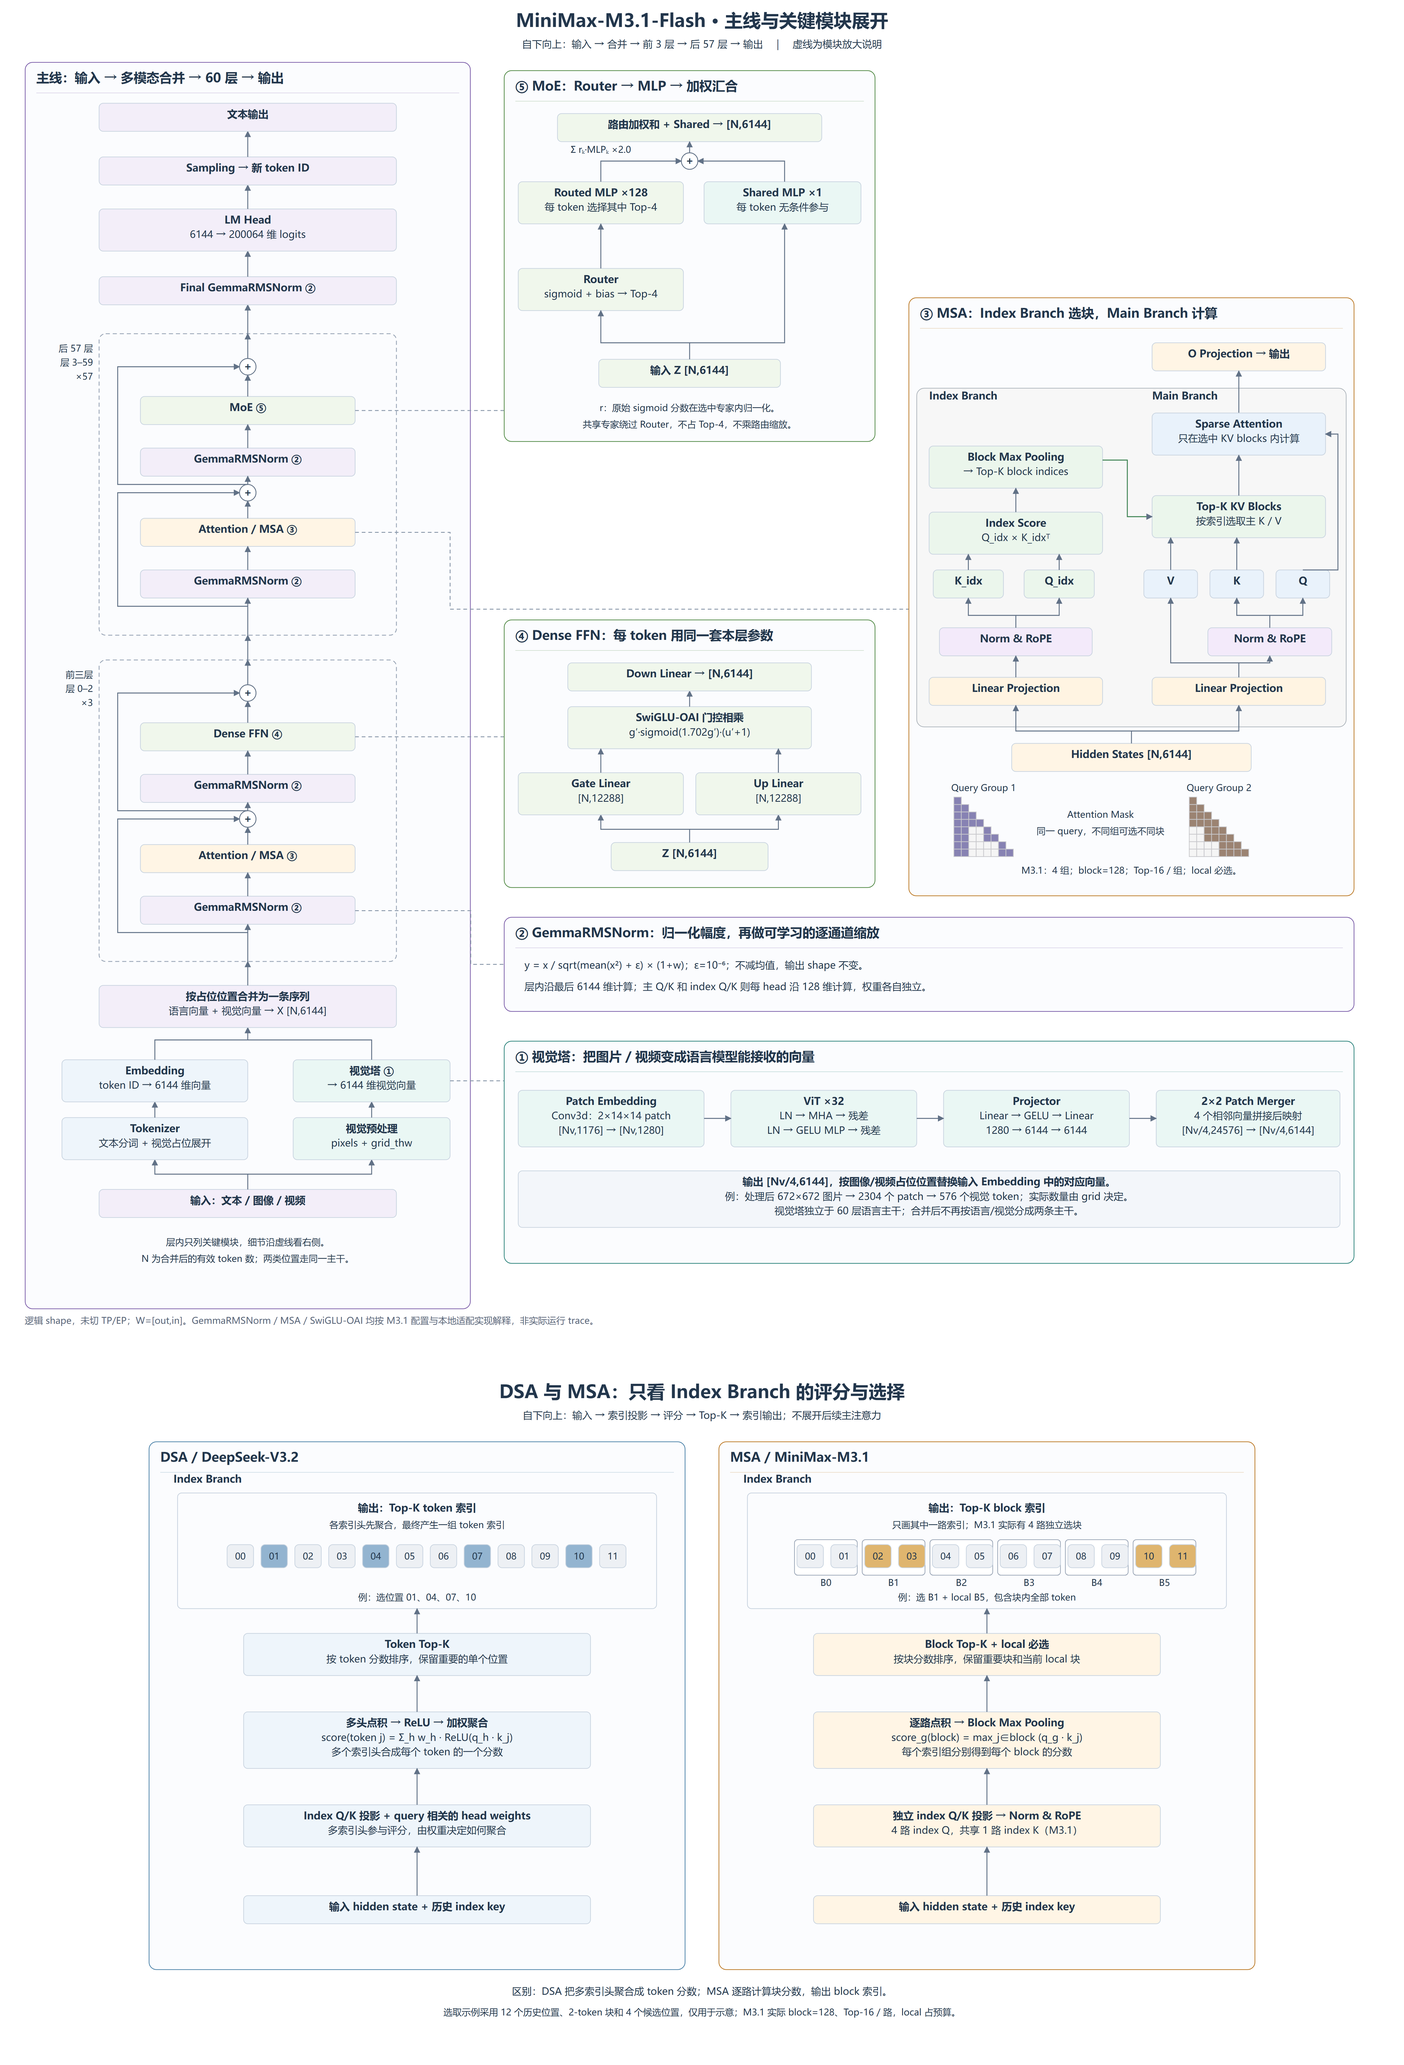
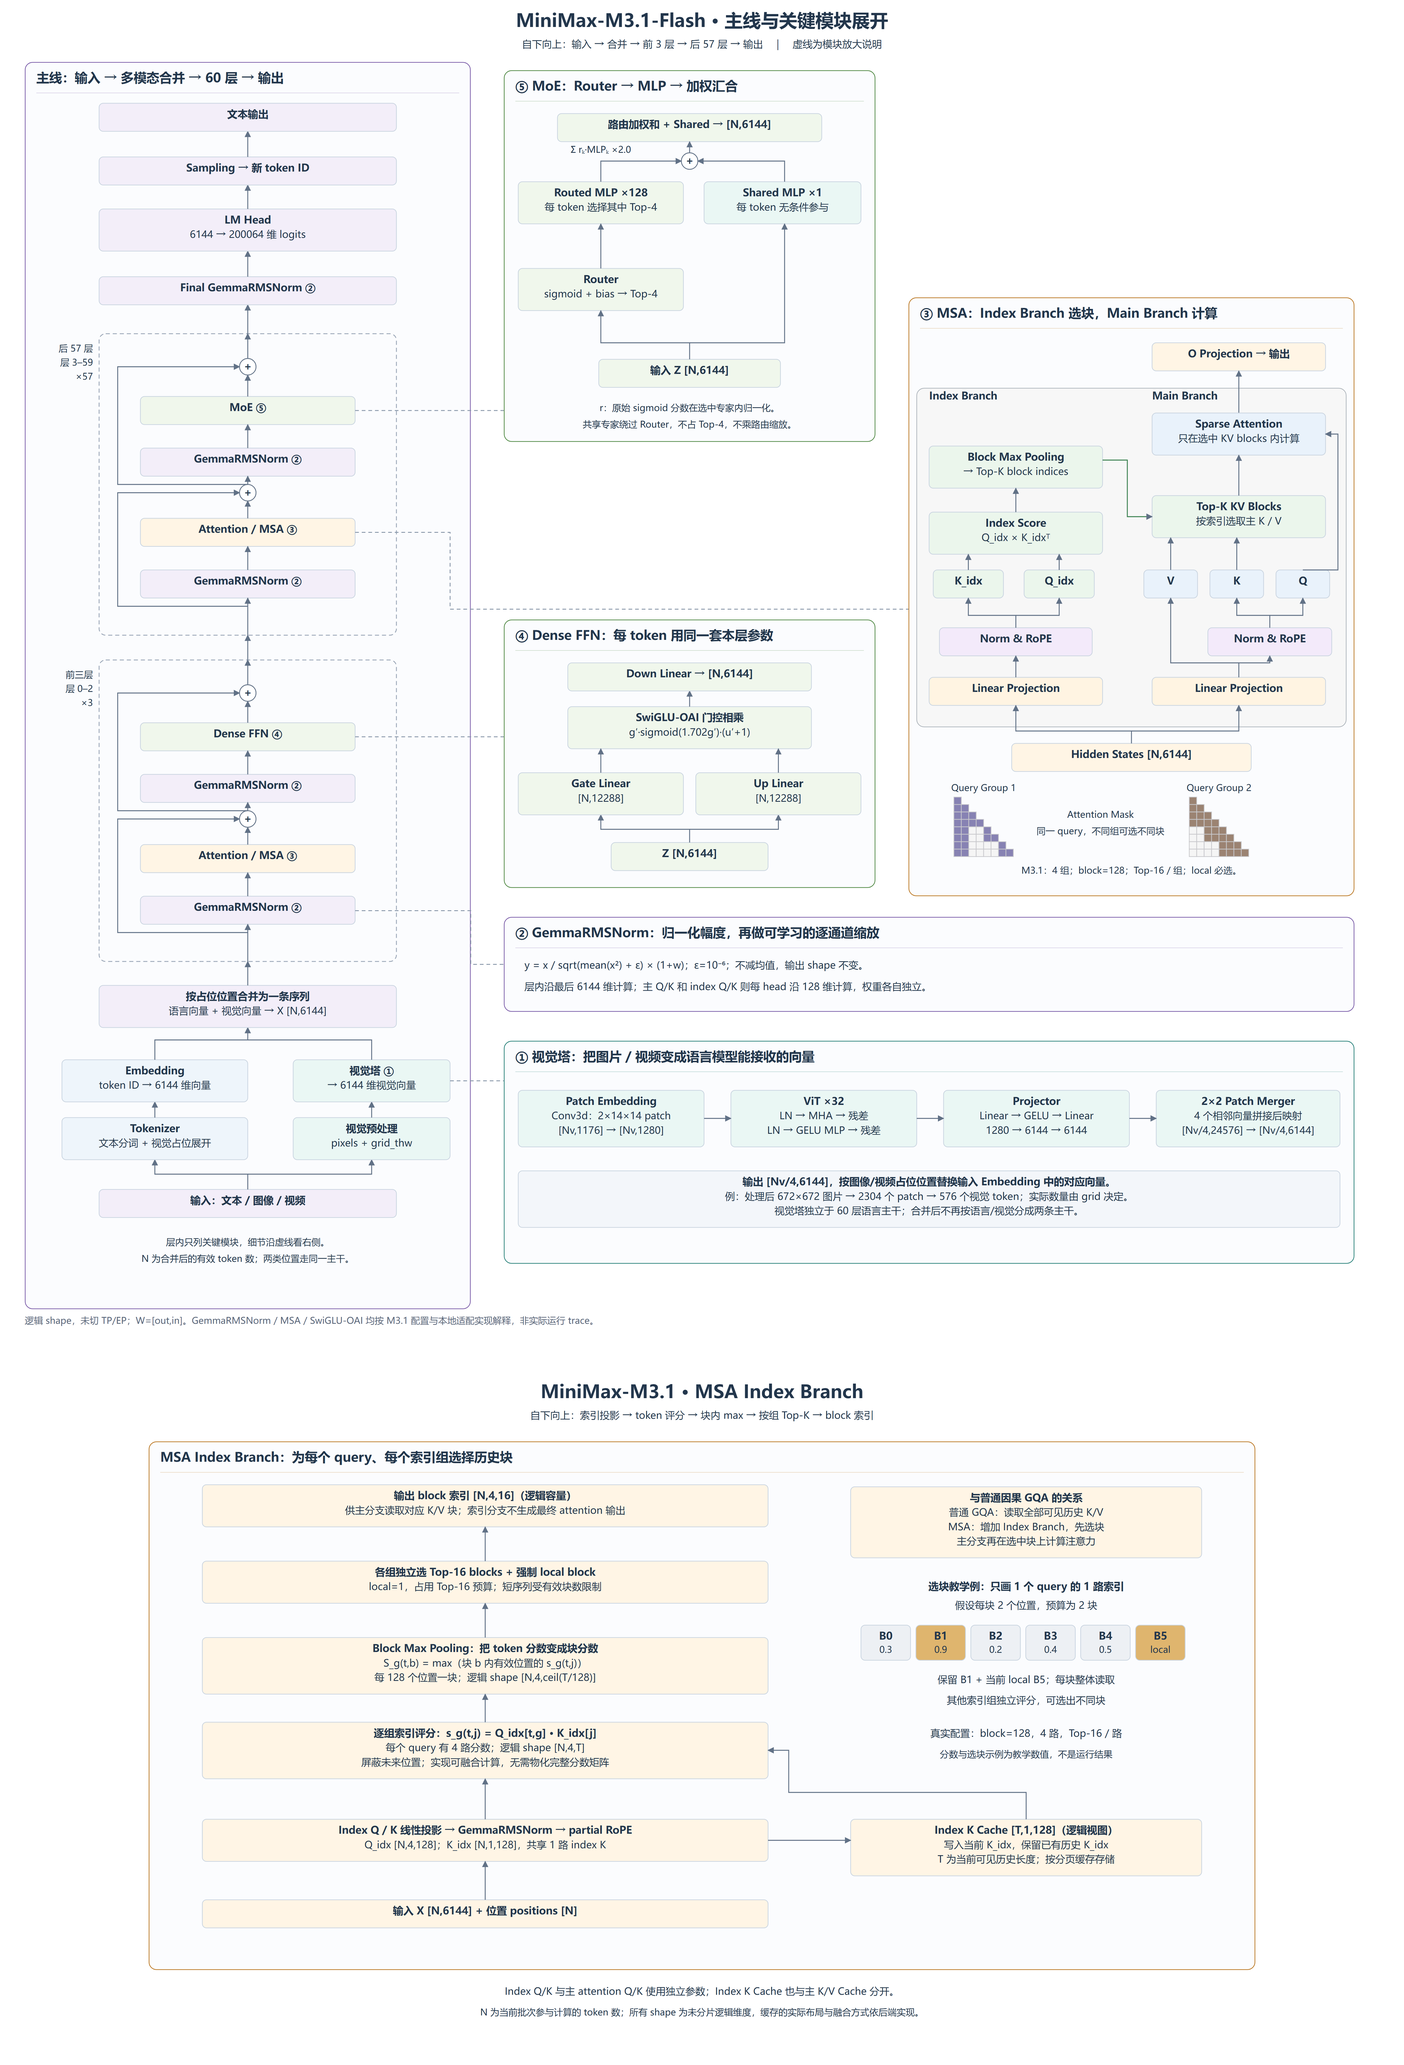
docs: replace DSA comparison with MSA index branch walkthrough

Changed region(s): [[0.1247, 0.6552, 0.8729, 0.9672]]

diff --git a/minimax/minimax-m31-flash/architecture/draw_msa_index.py b/minimax/minimax-m31-flash/architecture/draw_msa_index.py
@@ -1,0 +1,78 @@
+"""MSA Index Branch: projections, cache, block scores and selected indices."""
+import json
+from pathlib import Path
+from diagram_primitives import Plate,STYLE
+ROOT=Path(__file__).resolve().parent
+W,H=2800,1610
+p=Plate('msa-index-branch',2680,1280,'MSA Index Branch：为每个 query、每个索引组选择历史块','orange')
+# Bottom-up computation, with cache and teaching example alongside.
+p.box(130,1110,1370,['输入 X [N,6144] + 位置 positions [N]'],68)
+p.box(130,915,1370,['Index Q / K 线性投影 → GemmaRMSNorm → partial RoPE',
+    'Q_idx [N,4,128]；K_idx [N,1,128]，共享 1 路 index K'],102)
+p.arrow([(815,1110),(815,1017)])
+p.box(1700,915,850,['Index K Cache [T,1,128]（逻辑视图）',
+    '写入当前 K_idx，保留已有历史 K_idx',
+    'T 为当前可见历史长度；按分页缓存存储'],137)
+p.arrow([(1500,966),(1700,966)])
+p.box(130,680,1370,['逐组索引评分：s_g(t,j) = Q_idx[t,g] · K_idx[j]',
+    '每个 query 有 4 路分数；逻辑 shape [N,4,T]',
+    '屏蔽未来位置；实现可融合计算，无需物化完整分数矩阵'],137)
+p.arrow([(815,915),(815,817)])
+p.arrow([(2125,915),(2125,850),(1550,850),(1550,748),(1500,748)])
+p.box(130,475,1370,['Block Max Pooling：把 token 分数变成块分数',
+    'S_g(t,b) = max（块 b 内有效位置的 s_g(t,j)）',
+    '每 128 个位置一块；逻辑 shape [N,4,ceil(T/128)]'],137)
+p.arrow([(815,680),(815,612)])
+p.box(130,290,1370,['各组独立选 Top-16 blocks + 强制 local block',
+    'local=1，占用 Top-16 预算；短序列受有效块数限制'],102)
+p.arrow([(815,475),(815,392)])
+p.box(130,105,1370,['输出 block 索引 [N,4,16]（逻辑容量）',
+    '供主分支读取对应 K/V 块；索引分支不生成最终 attention 输出'],102)
+p.arrow([(815,290),(815,207)])
+p.box(1700,110,850,['与普通因果 GQA 的关系',
+    '普通 GQA：读取全部可见历史 K/V',
+    'MSA：增加 Index Branch，先选块',
+    '主分支再在选中块上计算注意力'],172)
+p.text(2125,360,'选块教学例：只画 1 个 query 的 1 路索引','node','middle')
+p.text(2125,405,'假设每块 2 个位置，预算为 2 块','body','middle')
+for b,score in enumerate(['0.3','0.9','0.2','0.4','0.5','local']):
+ x=1725+b*133
+ p.rect(x,445,120,85,'#dfb56e' if b in (1,5) else '#edf0f4')
+ p.text(x+60,480,f'B{b}','node','middle')
+ p.text(x+60,512,score,'small','middle')
+p.text(2125,585,'保留 B1 + 当前 local B5；每块整体读取','body','middle')
+p.text(2125,635,'其他索引组独立评分，可选出不同块','body','middle')
+p.text(2125,715,'真实配置：block=128，4 路，Top-16 / 路','body','middle')
+p.text(2125,765,'分数与选块示例为教学数值，不是运行结果','small','middle')
+svg=[f'<svg xmlns="http://www.w3.org/2000/svg" width="{W}" height="{H}" viewBox="0 0 {W} {H}">',
+ f'<rect width="{W}" height="{H}" fill="white"/>',STYLE,
+ '<text x="1400" y="65" class="title" text-anchor="middle">MiniMax-M3.1 · MSA Index Branch</text>',
+ '<text x="1400" y="115" class="body" text-anchor="middle">自下向上：索引投影 → token 评分 → 块内 max → 按组 Top-K → block 索引</text>',
+ '<g transform="translate(60,170)">'+''.join(p.items)+'</g>',
+ '<text x="1400" y="1510" class="body" text-anchor="middle">Index Q/K 与主 attention Q/K 使用独立参数；Index K Cache 也与主 K/V Cache 分开。</text>',
+ '<text x="1400" y="1560" class="small" text-anchor="middle">N 为当前批次参与计算的 token 数；所有 shape 为未分片逻辑维度，缓存的实际布局与融合方式依后端实现。</text></svg>']
+(ROOT/'msa-index-branch.svg').write_text('\n'.join(svg),encoding='utf-8')
+
+def render_png():
+    import html,os,re,subprocess,tempfile
+    from PIL import Image
+    candidates=[Path(os.environ.get('PROGRAMFILES','C:/Program Files'))/'Google/Chrome/Application/chrome.exe',
+                Path(os.environ.get('PROGRAMFILES(X86)','C:/Program Files (x86)'))/'Microsoft/Edge/Application/msedge.exe']
+    browser=next(p for p in candidates if p.exists())
+    qa="""<script>const bad=[];document.querySelectorAll('text[data-max-width]').forEach(t=>{if(t.getBBox().width>+t.dataset.maxWidth)bad.push(t.textContent)});const p=document.createElement('pre');p.id='qa';p.textContent=JSON.stringify(bad);document.body.append(p)</script>"""
+    with tempfile.TemporaryDirectory(prefix='msa-index-') as td:
+        temp=Path(td);page=temp/'index.html'
+        page.write_text('<!doctype html><meta charset="utf-8"><style>body{margin:0}</style>'+''.join(svg)+qa,encoding='utf-8')
+        r=subprocess.run([str(browser),'--headless','--disable-gpu','--hide-scrollbars','--no-first-run',
+            '--user-data-dir='+str(temp/'profile'),'--force-device-scale-factor=1.5',f'--window-size={W},{H}',
+            '--screenshot='+str(ROOT/'msa-index-branch.png'),'--dump-dom',page.as_uri()],capture_output=True,text=True,encoding='utf-8',timeout=60,creationflags=getattr(subprocess,'CREATE_NO_WINDOW',0))
+        assert r.returncode==0,r.stderr[-1000:]
+        report=re.search(r'<pre id="qa">(.*?)</pre>',r.stdout,re.S)
+        assert report and not json.loads(html.unescape(report.group(1))),report.group(1) if report else 'No QA report'
+    im=Image.open(ROOT/'msa-index-branch.png');assert im.size==(4200,2415)
+    im.resize((1400,805)).save(ROOT/'msa-index-branch-preview.png')
+    print('MSA Index Branch rendered at 4200x2415; node text fits.')
+
+if __name__=='__main__':
+    import sys
+    if '--png' in sys.argv:render_png()

diff --git a/minimax/minimax-m31-flash/architecture/draw_mainline.py b/minimax/minimax-m31-flash/architecture/draw_mainline.py
@@ -221,15 +221,15 @@ zoom([(860,1289),(1090,1289),(1090,1475),(2200,1475)])
 zoom([(860,1784),(1220,1784)])                # Dense FFN → dense inset
 zoom([(860,994),(1220,994)])                  # MoE → routed/shared inset
 full.append('<text x="60" y="3205" class="note">逻辑 shape，未切 TP/EP；W=[out,in]。GemmaRMSNorm / MSA / SwiGLU-OAI 均按 M3.1 配置与本地适配实现解释，非实际运行 trace。</text>')
-comparison=runpy.run_path(str(ROOT/'draw_attention_comparison.py'))
-comparison_svg=(ROOT/'msa-vs-dsa.svg').read_text(encoding='utf-8')
-comparison_svg=comparison_svg.replace('<svg ', '<svg x="300" y="3320" ',1)
-comparison_svg=comparison_svg.replace('id="arrow"','id="comparison-arrow"').replace('url(#arrow)','url(#comparison-arrow)')
-full.append(comparison_svg)
+runpy.run_path(str(ROOT/'draw_msa_index.py'))
+index_svg=(ROOT/'msa-index-branch.svg').read_text(encoding='utf-8')
+index_svg=index_svg.replace('<svg ', '<svg x="300" y="3320" ',1)
+index_svg=index_svg.replace('id="arrow"','id="index-arrow"').replace('url(#arrow)','url(#index-arrow)')
+full.append(index_svg)
 full.append('</svg>')
 (ROOT/'minimax-m31-detailed-architecture.svg').write_text('\n'.join(full),encoding='utf-8')
 for plate,_,_ in placements:(OUT/(plate.name+'.svg')).write_text(plate.render(),encoding='utf-8')
-(OUT/'layout.json').write_text(json.dumps({'width':W,'height':H,'plates':[{'name':p.name,'x':x,'y':y,'width':p.w,'height':p.h} for p,x,y in placements],'appendices':[{'name':'msa-vs-dsa','x':300,'y':3320,'width':2800,'height':1610}]},indent=2)+'\n',encoding='utf-8')
+(OUT/'layout.json').write_text(json.dumps({'width':W,'height':H,'plates':[{'name':p.name,'x':x,'y':y,'width':p.w,'height':p.h} for p,x,y in placements],'appendices':[{'name':'msa-index-branch','x':300,'y':3320,'width':2800,'height':1610}]},indent=2)+'\n',encoding='utf-8')
 
 def render_png():
     import html,os,re,subprocess,tempfile

diff --git a/minimax/minimax-m31-flash/architecture/msa-index-branch.md b/minimax/minimax-m31-flash/architecture/msa-index-branch.md
@@ -1,0 +1,24 @@
+# MSA Index Branch：如何选择历史块
+
+[高清 PNG](msa-index-branch.png) · [可编辑 SVG](msa-index-branch.svg) · [绘图源码](draw_msa_index.py)
+
+![索引分支](msa-index-branch-preview.png)
+
+本图已放到[完整架构图](minimax-m31-detailed-architecture.png)最下方。普通因果 GQA 在所有可见历史位置上做注意力；MSA 增加独立的索引分支，先挑选历史块，再让主分支在选中块上计算注意力。GQA 描述 Q/KV 头的共享关系，MSA 的稀疏选块可以与该共享关系同时存在。
+
+1. 当前输入 `X [N,6144]` 经独立索引投影，生成 `Q_idx [N,4,128]` 与 `K_idx [N,1,128]`。沿每个 head 的 128 维做 GemmaRMSNorm，再做 partial RoPE。
+2. 当前 index K 写入独立的 Index K Cache；逻辑历史视图为 `[T,1,128]`。它与主 attention 的 K/V Cache 分开。
+3. 每个 query 的 4 路 index Q 分别与历史 index K 点积，得到逻辑分数 `[N,4,T]`。未来位置不可参与候选。
+4. 每 128 个历史位置组成一块，块内取有效位置分数的最大值，得到逻辑块分数 `[N,4,ceil(T/128)]`。
+5. 各索引组独立选 Top-16 blocks，并强制保留 1 个 local block。local 占用选择预算；短序列和边界块仍受有效位置约束。
+6. 输出逻辑容量 `[N,4,16]` 的块索引，供主 attention 读取对应 K/V。索引分支只负责选块，不生成主 attention 输出。
+
+N 是当前批次参与计算的 token 数（decode 时可对应多个请求），T 是相应序列的可见历史长度；批处理时各序列的 T 可不同。以上是未切 TP 的逻辑 shape，融合内核可能直接计算块分数而不物化完整 token 分数矩阵，索引输出的物理排列也可能不同。
+
+选块例子只画一个 query 的一路索引：6 个块、每块 2 个位置、预算 2 块，选 B1 与当前 local B5。教学参数和分数不代表实际运行结果。
+
+实现入口：ycl `vllm-ascend-private` 的 `vllm_ascend/models/minimax_m3/minimax_m3.py` 中 `_sparse_prepare` 完成投影及 Norm/RoPE，`_insert_kv` 写缓存，`_run_sparse_attention` 调用 indexer 后把索引传给主分支；`msa_m3.py` 的 `AscendMiniMaxM3IndexerImpl.forward` 调度索引评分及 Top-K 内核。
+
+依据：[固定配置](sources/config.json)、[实现与来源](sources/README.md)及[张量流转详解](../model_analyze.md)。图为逻辑结构示意，不是运行 trace。
+
+重建：在 architecture 目录运行 `python -B draw_msa_index.py --png`；重建完整大图使用 `python -B draw_mainline.py --png`。需要 Chrome/Edge 和 Pillow。

diff --git a/minimax/minimax-m31-flash/architecture/mainline/README.md b/minimax/minimax-m31-flash/architecture/mainline/README.md
@@ -23,16 +23,7 @@ MSA 小图改为参考 [MSA 论文 Figure 1](https://arxiv.org/html/2606.13392v2
 
 为接回本图的语言层，顶部补充 O Projection。底部标注本模型实际配置：4 个 GQA 组、block=128、Top-16 / 组及强制 local。mask 仅展示两个组如何产生不同选块的教学示意，不代表模型只有两组，也不是实测 attention mask。完整 shape 与缓存过程见[文字详解](../../model_analyze.md)。
 
-以下补充对比中的 DSA 特指 DeepSeek-V3.2 的 DeepSeek Sparse Attention。大图底部附有[独立 Index Branch 对照图](../msa-vs-dsa.md)，仅比较索引分支，不展开后续主注意力。两者都有 Indexer；“先选再算”并非 MSA 独有，真正要区分的是按块选取与按 GQA 组独立选择：
-
-| 项目 | DSA（DeepSeek-V3.2） | MSA（本图的 M3.1） |
-| --- | --- | --- |
-| 选择粒度 | 单个历史 token | 128-token block |
-| 选取结果共享范围 | 同一 query 的所有 Q heads 共用一组 token 索引 | 每个 GQA 组独立选择块；组内 Q heads 共用 |
-| 索引评分 | 多个索引头的 ReLU 点积，经 query 相关权重聚合为 token 分数 | 每组 index Q 与 index K 点积，再对块内位置取 max |
-| 主注意力搭配 | V3.2 基于 MLA 的 MQA 模式 | GQA，64 个 Q heads 对应 4 个 KV heads |
-
-依据：[MSA 论文第 6 节对 DSA 的直接比较](https://arxiv.org/html/2606.13392v2#S6)、[DeepSeek-V3.2 第 2.1 节及式 1](https://arxiv.org/html/2512.02556v1#S2.SS1)。本图的 Top-16、128 和 4 组取自固定 M3.1 配置。按块选取便于连续 KV 读取，但即使候选数量相同，也不等同于选出相同数量的最佳单个 token，不能仅凭示意图判断哪种实现更快。
+大图底部单独展开 [MSA Index Branch](../msa-index-branch.md)：独立 Q/K 投影与 Norm/RoPE → 写入 Index K Cache → 逐组 token 点积 → 每 128 个位置取块内 max → 各组 Top-16（包含强制 local）→ 块索引。普通因果 GQA 读取全部可见历史 K/V；MSA 主分支根据索引只读取选中块。小图不展开主注意力的头共享细节。
 
 MoE 小图沿用参考图的 Router → MLP → 加权汇合组织方式，去掉 dispatch/combine 等实现节点；参数按 M3.1 改为 128 个路由 MLP、每 token 选择 4 个，并额外保留每 token 都参与的 1 个共享 MLP。共享 MLP 绕过 Router，其输出不乘路由缩放系数。专家内部的 gate/up、激活、down 仍见文字详解。
 

diff --git a/minimax/minimax-m31-flash/model_analyze.md b/minimax/minimax-m31-flash/model_analyze.md
@@ -8,7 +8,7 @@
 
 当前首选图为[单一主线 + 模块展开](architecture/mainline/README.md)：左侧贯穿输入、Tokenizer、Embedding/视觉塔合并、前 3 层、后 57 层及输出，右侧五张小图由对应关键模块引出；以下大分区图作为扩展资料保留。
 
-2026-11-13 图解修订：参见[当前主线与关键模块图](architecture/minimax-m31-detailed-architecture.png)及[模块小图](architecture/mainline/README.md)，底部附 [Index Branch 对照](architecture/msa-vs-dsa.md)。视觉塔先生成同宽视觉向量，再按占位位置与语言向量合成同一序列；进入 MoE 后，两类位置都同时进入 router 和共享分支，不按模态固定分路。
+2026-11-13 图解修订：参见[当前主线与关键模块图](architecture/minimax-m31-detailed-architecture.png)及[模块小图](architecture/mainline/README.md)，底部附 [Index Branch 详解](architecture/msa-index-branch.md)。视觉塔先生成同宽视觉向量，再按占位位置与语言向量合成同一序列；进入 MoE 后，两类位置都同时进入 router 和共享分支，不按模态固定分路。
 
 先区分三个对象：**模型参数**是训练得到的权重，推理时通常保持数值和 shape 不变；**激活张量**是输入经过每步运算得到的中间值；**运行时状态**包括 KV cache、位置、块表和路由索引，会随请求推进而更新。下文所谓“轮转”主要指后两者的数据流与状态变化。
 

diff --git a/minimax/minimax-m31-flash/README.md b/minimax/minimax-m31-flash/README.md
@@ -4,7 +4,7 @@
 
 ## 入口
 
-- [主线架构图：输入到输出及模块展开](architecture/minimax-m31-detailed-architecture.png) · [可编辑 SVG](architecture/minimax-m31-detailed-architecture.svg) · [主线与模块小图](architecture/mainline/README.md)。一条主线贯穿 Tokenizer、Embedding/视觉塔合并、前 3 层、后 57 层和输出，虚线连接关键模块说明，底部附 MSA / DSA 的 Index Branch 对照。
+- [主线架构图：输入到输出及模块展开](architecture/minimax-m31-detailed-architecture.png) · [可编辑 SVG](architecture/minimax-m31-detailed-architecture.svg) · [主线与模块小图](architecture/mainline/README.md)。一条主线贯穿 Tokenizer、Embedding/视觉塔合并、前 3 层、后 57 层和输出，虚线连接关键模块说明，底部附 MSA Index Branch 详解。
 - [模型结构说明与完整参数表](architecture/README.md)：主干、MSA/indexer、残差、专家及视觉融合。
 - [逐步张量 shape 与数值流转详解](model_analyze.md)：输入接口、QKV/indexer、MoE 分发回收、prefill/decode 算例、视觉 patch、KV 分页、TP/EP 与量化存储；附固定版本配置和官方权重 header 抽样。
 - [全层测试：服务启动、测试命令、结果及边界](full/README.md)。
